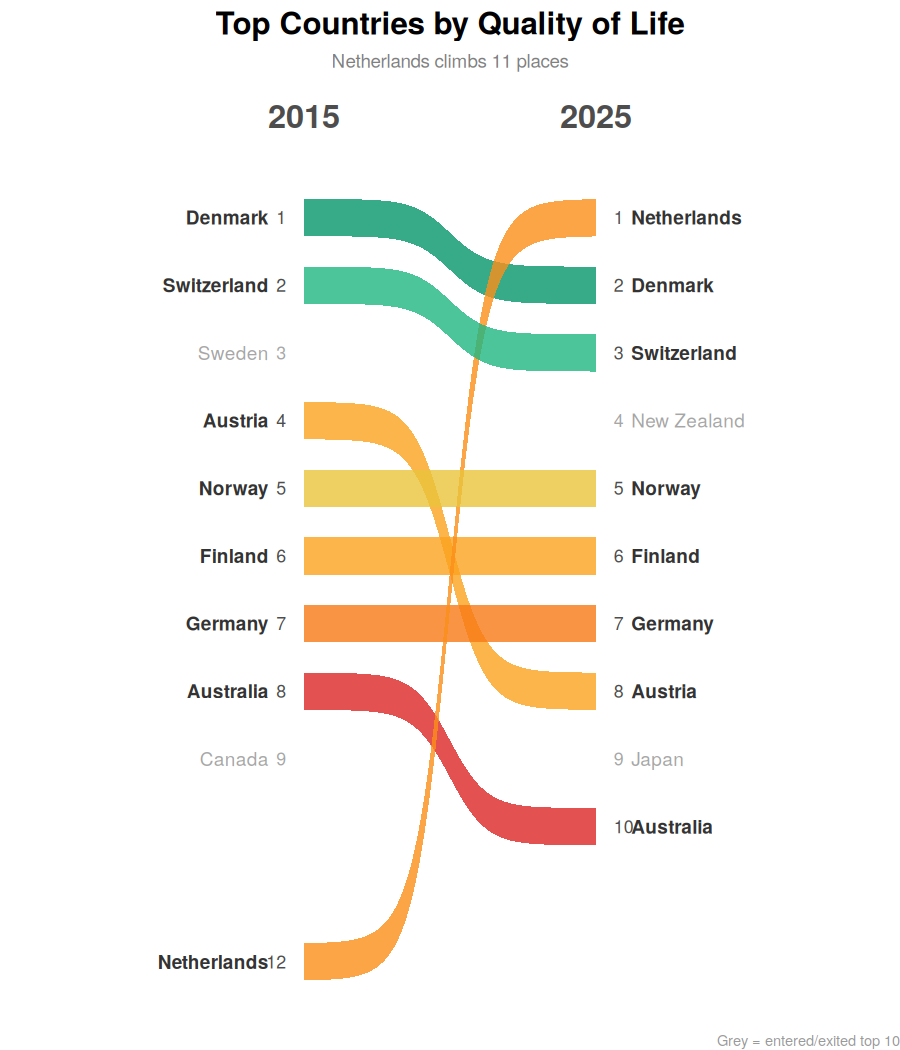
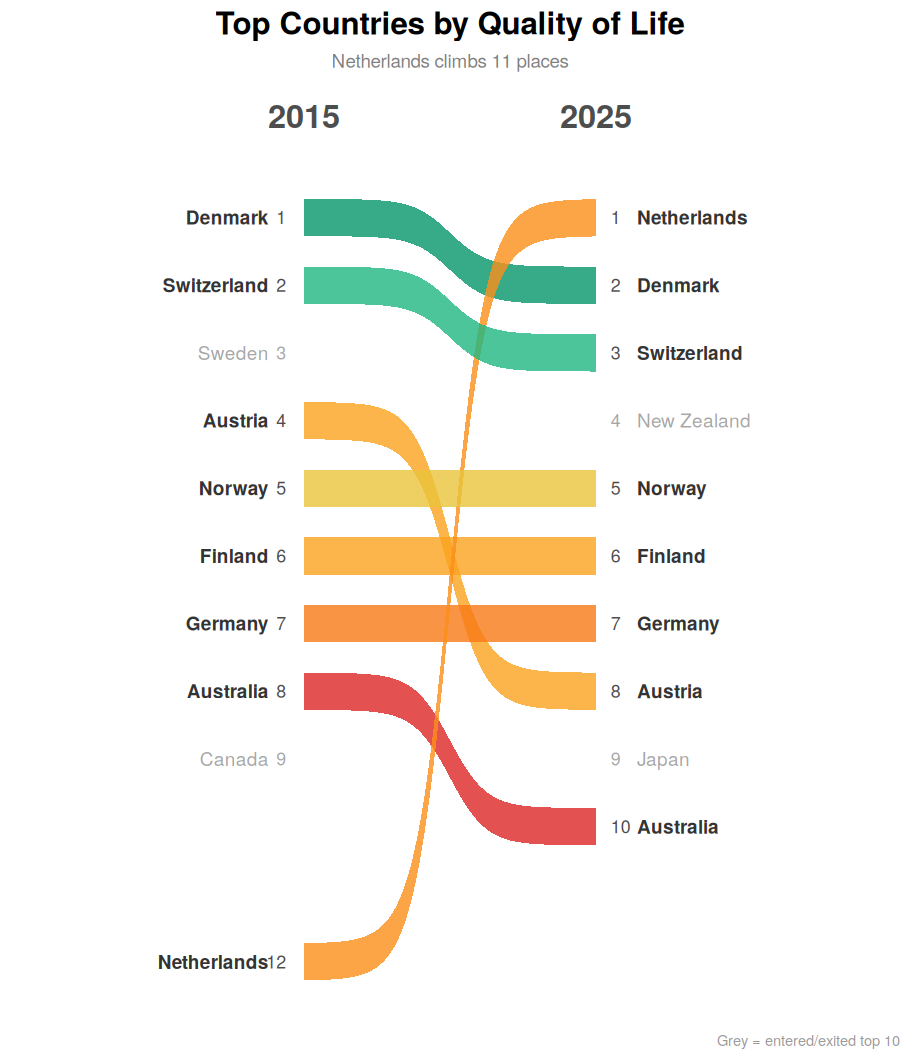
Fix rendering issues + add GDP hero figure
Fixes:
- En-dash encoding in languages and health subtitles (U+2013 → hyphen)
- mtcars rank ties: ties.method='first' eliminates half-integer ranks
- Quality of Life right-side label spacing for two-digit ranks

GDP hero added as evaluated chunk (echo=FALSE) with:
- 3-bend exit-channel-enter lines
- Alternating row backgrounds, GDP bar segments
- Row layout: rank | flag | name | GDP value
- Code in collapsible details via ref.label

10 figures, all generated by rmarkdown::render(). Zero static PNGs.

diff --git a/README.md b/README.md
@@ -108,6 +108,152 @@ Flags require [ggflags](https://github.com/jimjam-slam/ggflags):
 
 </details>
 
+### `geom_bump_line()` — Top 20 Economies 1980 vs 2025
+
+<img src="man/figures/README-gdp-1.png" alt="" width="100%" />
+
+<details>
+<summary>
+Code to reproduce (requires ggflags + countrycode)
+</summary>
+
+``` r
+both <- data.frame(stringsAsFactors = FALSE,
+  country   = c("U.S.","Japan","Germany","France","UK","Italy","China","Canada",
+                "Mexico","Spain","Netherlands","India","Saudi Arabia","Australia","Brazil"),
+  rank_from = c(1,2,3,4,5,6,7,8,9,11,12,13,14,15,16),
+  rank_to   = c(1,4,3,7,6,8,2,10,13,12,18,5,19,15,11),
+  gdp_1980  = c(2.9,1.1,0.857,0.695,0.605,0.480,0.304,0.276,
+                0.242,0.231,0.194,0.186,0.165,0.163,0.146),
+  gdp_2025  = c(30.6,4.3,5.0,3.4,4.0,2.5,19.4,2.3,1.9,1.9,1.3,4.1,1.3,1.8,2.3))
+
+exit_only_gdp <- data.frame(stringsAsFactors = FALSE,
+  country   = c("Argentina","Sweden","Belgium","Switzerland","Iran"),
+  rank_from = c(10,17,18,19,20),
+  gdp_1980  = c(0.234,0.140,0.123,0.122,0.117))
+
+enter_only_gdp <- data.frame(stringsAsFactors = FALSE,
+  country   = c("Russia","S. Korea","Turkey","Indonesia","Poland"),
+  rank_to   = c(9,14,16,17,20),
+  gdp_2025  = c(2.5,1.9,1.6,1.4,1.0))
+
+ov2 <- c("U.S."="us","UK"="gb","S. Korea"="kr","Turkey"="tr")
+iso2 <- function(x) ifelse(x %in% names(ov2), ov2[x],
+  tolower(countrycode::countrycode(x, "country.name", "iso2c", warn = FALSE)))
+
+both$iso2           <- iso2(both$country)
+exit_only_gdp$iso2  <- iso2(exit_only_gdp$country)
+enter_only_gdp$iso2 <- iso2(enter_only_gdp$country)
+
+both_long <- data.frame(
+  x       = rep(c(1, 1.35, 1.65, 2), each = nrow(both)),
+  y       = c(both$rank_from, both$rank_from, both$rank_to, both$rank_to),
+  group   = rep(both$country, 4),
+  country = rep(both$country, 4),
+  iso2    = rep(both$iso2, 4))
+
+lbl_l_gdp <- both_long[both_long$x == 1, ]
+lbl_r_gdp <- both_long[both_long$x == 2, ]
+
+fmt_gdp <- function(x) ifelse(x >= 1,
+  paste0("$", formatC(x, format = "f", digits = 1), "T"),
+  paste0("$", round(x * 1000), "B"))
+
+both$gdp_l_label          <- fmt_gdp(both$gdp_1980)
+both$gdp_r_label          <- fmt_gdp(both$gdp_2025)
+exit_only_gdp$gdp_label   <- fmt_gdp(exit_only_gdp$gdp_1980)
+enter_only_gdp$gdp_label  <- fmt_gdp(enter_only_gdp$gdp_2025)
+
+gdp_max   <- 31
+bar_left  <- 2.22
+bar_width <- 0.55
+bars_r <- data.frame(y = both$rank_to, xmin = bar_left,
+  xmax = bar_left + bar_width * (both$gdp_2025 / gdp_max), gdp = both$gdp_2025)
+bars_enter <- data.frame(y = enter_only_gdp$rank_to, xmin = bar_left,
+  xmax = bar_left + bar_width * (enter_only_gdp$gdp_2025 / gdp_max), gdp = enter_only_gdp$gdp_2025)
+
+row_bg_l <- data.frame(y = 1:20, xmin = 0.15, xmax = 0.98,
+  fill = ifelse(1:20 %% 2 == 0, "#0a1a3a", "#0e2248"))
+row_bg_r <- data.frame(y = 1:20, xmin = 2.02, xmax = 2.85,
+  fill = ifelse(1:20 %% 2 == 0, "#0a1a3a", "#0e2248"))
+
+bg <- "#0b1a38"
+
+ggplot() +
+  geom_rect(data = row_bg_l,
+    aes(xmin = xmin, xmax = xmax, ymin = y - 0.48, ymax = y + 0.48),
+    fill = row_bg_l$fill, colour = NA) +
+  geom_rect(data = row_bg_r,
+    aes(xmin = xmin, xmax = xmax, ymin = y - 0.48, ymax = y + 0.48),
+    fill = row_bg_r$fill, colour = NA) +
+  geom_rect(data = bars_r,
+    aes(xmin = xmin, xmax = xmax, ymin = y - 0.35, ymax = y + 0.35),
+    fill = scales::seq_gradient_pal("#3b82f6", "#ec4899")(bars_r$gdp / gdp_max),
+    colour = NA, alpha = 0.7) +
+  geom_rect(data = bars_enter,
+    aes(xmin = xmin, xmax = xmax, ymin = y - 0.35, ymax = y + 0.35),
+    fill = scales::seq_gradient_pal("#3b82f6", "#ec4899")(bars_enter$gdp / gdp_max),
+    colour = NA, alpha = 0.5) +
+  geom_bump_line(data = both_long,
+    aes(x = x, y = y, group = group, colour = after_stat(avg_y)),
+    linewidth = 0.7, smooth = 10) +
+  scale_colour_gradientn(
+    colours = c("#fbbf24","#f59e0b","#22d3ee","#818cf8","#a78bfa"),
+    guide = "none") +
+  scale_y_reverse(expand = expansion(mult = c(0.03, 0.03))) +
+  scale_x_continuous(limits = c(0.12, 2.88)) +
+  geom_text(data = lbl_l_gdp, aes(x = 0.20, y = y, label = y),
+    inherit.aes = FALSE, hjust = 0, colour = "white", size = 3.2, fontface = "bold") +
+  ggflags::geom_flag(data = lbl_l_gdp, aes(x = 0.30, y = y, country = iso2),
+    inherit.aes = FALSE, size = 2.5) +
+  geom_text(data = lbl_l_gdp, aes(x = 0.38, y = y, label = country),
+    inherit.aes = FALSE, hjust = 0, colour = "white", size = 2.8, fontface = "bold") +
+  geom_text(data = both, aes(x = 0.95, y = rank_from, label = gdp_l_label),
+    inherit.aes = FALSE, hjust = 1, colour = "grey75", size = 2.5) +
+  ggflags::geom_flag(data = lbl_r_gdp, aes(x = 2.07, y = y, country = iso2),
+    inherit.aes = FALSE, size = 2.5) +
+  geom_text(data = lbl_r_gdp, aes(x = 2.15, y = y, label = country),
+    inherit.aes = FALSE, hjust = 0, colour = "white", size = 2.8, fontface = "bold") +
+  geom_text(data = both, aes(x = 2.78, y = rank_to, label = gdp_r_label),
+    inherit.aes = FALSE, hjust = 1, colour = "white", size = 2.5) +
+  geom_text(data = lbl_r_gdp, aes(x = 2.82, y = y, label = y),
+    inherit.aes = FALSE, hjust = 0, colour = "white", size = 3.2, fontface = "bold") +
+  geom_text(data = exit_only_gdp, aes(x = 0.20, y = rank_from, label = rank_from),
+    inherit.aes = FALSE, hjust = 0, colour = "grey50", size = 3.2, fontface = "bold") +
+  ggflags::geom_flag(data = exit_only_gdp, aes(x = 0.30, y = rank_from, country = iso2),
+    inherit.aes = FALSE, size = 2.5) +
+  geom_text(data = exit_only_gdp, aes(x = 0.38, y = rank_from, label = country),
+    inherit.aes = FALSE, hjust = 0, colour = "grey50", size = 2.8, fontface = "bold") +
+  geom_text(data = exit_only_gdp, aes(x = 0.95, y = rank_from, label = gdp_label),
+    inherit.aes = FALSE, hjust = 1, colour = "grey45", size = 2.5) +
+  ggflags::geom_flag(data = enter_only_gdp, aes(x = 2.07, y = rank_to, country = iso2),
+    inherit.aes = FALSE, size = 2.5) +
+  geom_text(data = enter_only_gdp, aes(x = 2.15, y = rank_to, label = country),
+    inherit.aes = FALSE, hjust = 0, colour = "grey50", size = 2.8, fontface = "bold") +
+  geom_text(data = enter_only_gdp, aes(x = 2.78, y = rank_to, label = gdp_label),
+    inherit.aes = FALSE, hjust = 1, colour = "grey50", size = 2.5) +
+  geom_text(data = enter_only_gdp, aes(x = 2.82, y = rank_to, label = rank_to),
+    inherit.aes = FALSE, hjust = 0, colour = "grey50", size = 3.2, fontface = "bold") +
+  annotate("text", x = 0.55, y = -0.8, label = "1980",
+    colour = "#60a5fa", size = 7, fontface = "bold") +
+  annotate("text", x = 2.45, y = -0.8, label = "2025",
+    colour = "#60a5fa", size = 7, fontface = "bold") +
+  annotate("segment", x = 0.85, xend = 2.15, y = -0.8, yend = -0.8,
+    colour = "grey40", linewidth = 0.3) +
+  labs(title   = "TOP 20 ECONOMIES",
+       caption = "Source: IMF, World Economic Outlook October 2025 | Made with ggbumpribbon") +
+  theme_void() +
+  theme(plot.background  = element_rect(fill = bg, colour = NA),
+        panel.background = element_rect(fill = bg, colour = NA),
+        plot.title       = element_text(colour = "#93c5fd", size = 22, face = "bold",
+                                        hjust = 0.5, margin = margin(t = 12, b = 2)),
+        plot.caption     = element_text(colour = "grey45", size = 6,
+                                        hjust = 0.5, margin = margin(t = 8, b = 5)),
+        plot.margin      = margin(8, 8, 8, 8))
+```
+
+</details>
+
 ## The gap
 
 | Package          | What it does                                       | What it lacks                                           |
@@ -212,7 +358,7 @@ mt$car <- rownames(mt)
 
 mt_long <- data.frame(
   x     = rep(1:2, each = 10),
-  y     = c(rank(-mt$mpg), rank(-mt$hp)),
+  y     = c(rank(-mt$mpg, ties.method = "first"), rank(-mt$hp, ties.method = "first")),
   group = rep(mt$car, 2)
 )
 
@@ -306,7 +452,7 @@ ggplot(df, aes(x, y, group = group, colour = group)) +
   geom_text(data = lbl_r, aes(x = 2024.3, y = y, label = group),
             inherit.aes = FALSE, hjust = 0, size = 2.8, colour = "grey20") +
   labs(title = "Programming Language Popularity on GitHub",
-       subtitle = "Simulated rank by pull requests 2016–2024", x = NULL, y = "Rank") +
+       subtitle = "Simulated rank by pull requests 2016-2024", x = NULL, y = "Rank") +
   theme_light(base_size = 10) +
   theme(panel.grid.minor = element_blank(), plot.title = element_text(face = "bold"))
 ```
@@ -340,7 +486,7 @@ ggplot(df, aes(x, y, group = group, fill = after_stat(avg_y))) +
   geom_text(data = lbl_r, aes(x = 2020.2, y = y, label = y),
             inherit.aes = FALSE, hjust = 0, size = 2.2, colour = "grey50") +
   labs(title = "Leading Causes of Death in the U.S.",
-       subtitle = "Simulated rank changes 2000–2020", x = NULL, y = "Rank") +
+       subtitle = "Simulated rank changes 2000-2020", x = NULL, y = "Rank") +
   theme_minimal(base_size = 10) +
   theme(panel.grid.minor = element_blank(), panel.grid.major.x = element_blank(),
         plot.title = element_text(face = "bold"))
@@ -374,17 +520,17 @@ ggplot(df, aes(x, y, group = group, fill = after_stat(avg_y))) +
             inherit.aes = FALSE, hjust = 1, colour = "grey30", size = 3) +
   geom_text(data = lbl_l, aes(x = 0.88, y = y, label = group),
             inherit.aes = FALSE, hjust = 1, colour = "grey20", size = 3.2, fontface = "bold") +
-  geom_text(data = lbl_r, aes(x = 2.06, y = y, label = y),
+  geom_text(data = lbl_r, aes(x = 2.05, y = y, label = y),
             inherit.aes = FALSE, hjust = 0, colour = "grey30", size = 3) +
-  geom_text(data = lbl_r, aes(x = 2.12, y = y, label = group),
+  geom_text(data = lbl_r, aes(x = 2.14, y = y, label = group),
             inherit.aes = FALSE, hjust = 0, colour = "grey20", size = 3.2, fontface = "bold") +
   geom_text(data = exit_only, aes(x = 0.94, y = rank_from, label = rank_from),
             inherit.aes = FALSE, hjust = 1, colour = "grey65", size = 3) +
   geom_text(data = exit_only, aes(x = 0.88, y = rank_from, label = group),
             inherit.aes = FALSE, hjust = 1, colour = "grey65", size = 3.2) +
-  geom_text(data = enter_only, aes(x = 2.06, y = rank_to, label = rank_to),
+  geom_text(data = enter_only, aes(x = 2.05, y = rank_to, label = rank_to),
             inherit.aes = FALSE, hjust = 0, colour = "grey65", size = 3) +
-  geom_text(data = enter_only, aes(x = 2.12, y = rank_to, label = group),
+  geom_text(data = enter_only, aes(x = 2.14, y = rank_to, label = group),
             inherit.aes = FALSE, hjust = 0, colour = "grey65", size = 3.2) +
   annotate("text", x = 1, y = -0.5, label = "2015", colour = "grey30",
            size = 5.5, fontface = "bold") +
